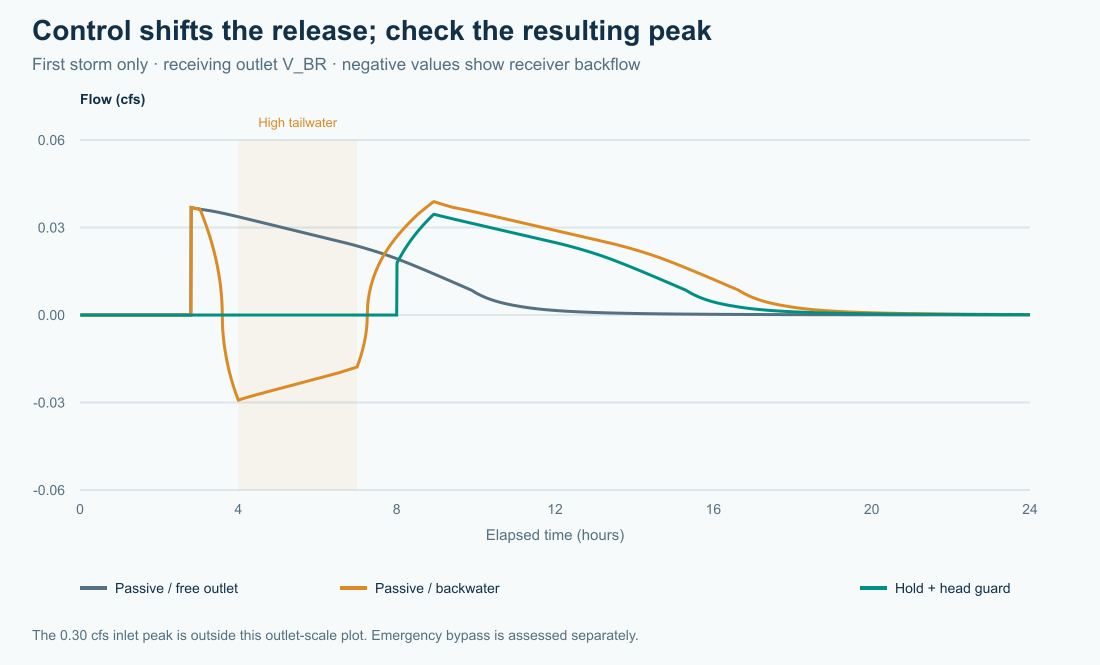
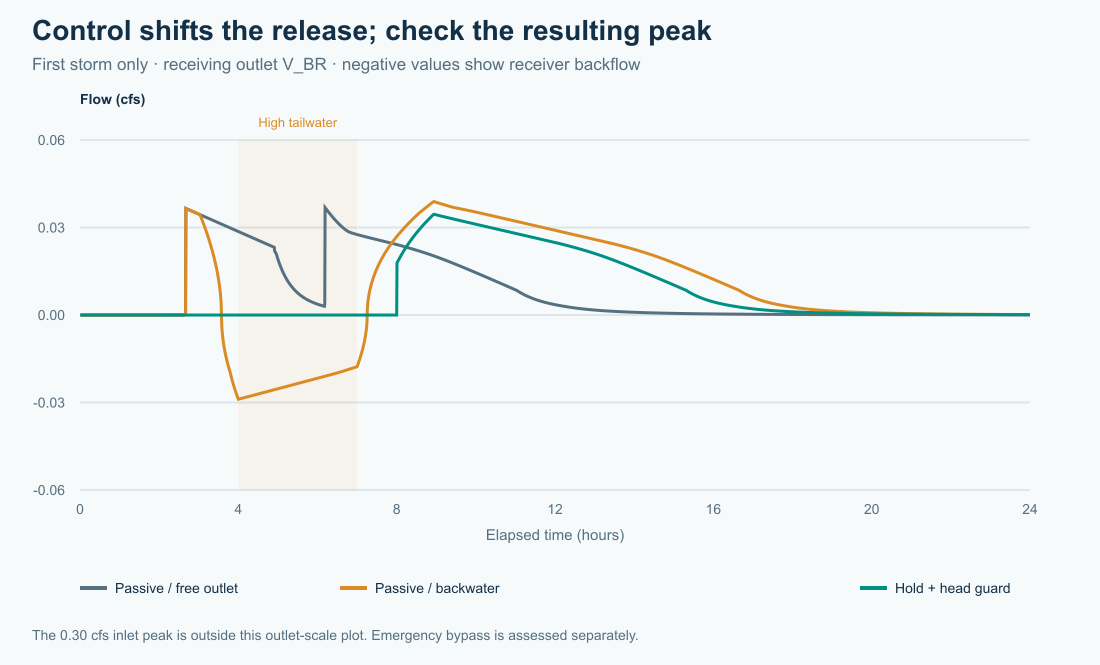
Update distributed LID formulations in the manual

Changed region(s): [[0.1545, 0.3008, 0.6182, 0.4812], [0.2164, 0.5714, 0.2473, 0.6015]]

diff --git a/docs/manual/tutorials/t10_lid_active_chain.md b/docs/manual/tutorials/t10_lid_active_chain.md
@@ -31,7 +31,7 @@ folder. Each contains all time series; no rainfall or external data file is requ
 
 These are synthetic tests with hypothetical treatment kinetics. They are not
 calibrated design recommendations. They require an engine containing the
-storage-node LID pollutant-balance corrections described in the article's
+storage-node LID legacy-hydrology adaptation and pollutant-balance corrections described in the article's
 validation notes. Use Dynamic Wave and `QUALITY_SOLVER LEGACY`.
 
 ## Steps
@@ -97,13 +97,12 @@ adds the same water volume once.
 
 \fig{t10_water-stores.png, Retained moisture and connected mobile storage in one layered facility}
 
-Intercell drainage is a gravity-only Darcy–Buckingham approximation, not
-an adjacent-cell total-head calculation. For downward-positive `xi`, the
-full one-dimensional relation is `q = K(theta) * (1 - dpsi/dxi)`; this
-kernel omits the matric-head gradient and uses donor conductivity:
+MEDIA drainage uses legacy SWMM's exponential conductivity law with a
+field-capacity cutoff. For downward-positive `xi`, Darcy–Buckingham gives
+`q = K(theta) * (1 - dpsi/dxi)`; this kernel omits the matric-head gradient:
 
 ```text
-q_i = Ks_i * clamp(theta_i / porosity_i, 0, 1)^n_i
+q_i = Ks_i * exp(-slope_i * (porosity_i - theta_i))
       if theta_i > field_capacity_i; otherwise zero
 Q_i = area_i * q_i
 accepted_volume = min(Q_i * substep,
@@ -111,23 +110,30 @@ accepted_volume = min(Q_i * substep,
                       max(0, (porosity_receiver - theta_receiver) * G_receiver))
 ```
 
-The receiving-space bound applies to a retained receiver entirely above
-the mobile water table. Otherwise, the transfer enters mobile storage.
-Cells whose bottoms lie below that table skip free drainage. Transfers
-use a common pre-update state and are debited/credited once, with explicit
-substeps at most one second. Aggregate cells use the same power law with
-zero field capacity and the default exponent three. The surface entry
-closure is separate:
+**Conductivity slope** is dimensionless, not a power exponent. A zero slope
+means constant Ks above field capacity. Ks = 10 mm/h, theta = 0.30,
+porosity = 0.45 and slope = 10 give 2.23 mm/h. AGGREGATE drains at its
+specified conductivity, with zero field capacity and the same volume bounds.
+The receiving-space bound applies above the mobile water table; a receiver
+intersected by that table routes to mobile storage. Submerged donors skip
+free drainage. All cells use a common pre-update state, explicit substeps
+at most one second and equal donor/receiver transfers.
+
+SURFACE → first MEDIA entry reuses modified Green–Ampt. Its ponded capacity
+for an existing downward front is:
 
 ```text
-q_inf = K_receiver * (1 + suction_receiver * max(porosity_receiver - theta_receiver, 0)
-                          / max(suction_receiver + theta_surface * thickness_surface, epsilon))
+f_cap = Ks * (1 + (suction + ponded_depth) * moisture_deficit / F)
+ponded_depth = theta_surface * thickness_surface / surface_void_fraction
+F_new = F_old + accepted_infiltration_volume / surface_area
 ```
 
-It uses the surface area and the same donor/receiver bounds; it does not
-track a wetting front. For media with Ks = 10 mm/h, theta = 0.30,
-porosity = 0.45, n = 3 and field capacity = 0.20, the trial drainage is
-2.96 mm/h, independent of receiving-cell suction.
+The native routine handles F = 0, integrated infiltration and supply-limited
+transitions. Rejected potential flux does not advance F or upper-zone wetness.
+Recovery cannot make the history drier than actual cell moisture. Suction and
+conductivity keep the authored in/mm and in/h or mm/h units. Green–Ampt applies
+only when MEDIA directly follows SURFACE; surface-to-aggregate entry uses the
+aggregate conductivity. Additional MEDIA layers use the drainage law above.
 
 \fig{t10_interlayer-flux.png, Donor-based gravity flux and conservative limits compared with matric-gradient transport}
 
@@ -208,7 +214,12 @@ rules and priorities. Save a separate copy when editing.
 
 ### 5. Run and compare results
 
-Run each file separately. Inspect A/B depth and volume, R head, actual valve
+In **Model → Simulation Options…**, set **Routing step** to **0.025 s**
+on the Time Steps page and set **Variable step factor** to **0** in
+Routing & Hydraulics → Solver (`VARIABLE_STEP 0`) for a controlled comparison. The supplied decks retain
+a 0.5-s initial step; the figure runner overrides it. The second-storm
+validation includes smaller steps and reports their measured differences.
+Save edited decks separately. Run each file separately. Inspect A/B depth and volume, R head, actual valve
 settings, signed flows in V_AB and V_BR, W_A/W_B flows and pollutant
 concentrations. Negative link flow indicates reversal. Use comparison plots
 as described in \ref manual_time_series_plots.
@@ -233,10 +244,10 @@ time. Static versions of both figures appear above.
 <!-- START RESULTS_TABLE -->
 | First-storm strategy | V_BR peak (cfs) | Tracer 50% export (h) | Reacted by 24 h |
 |---|---|---|---|
-| Passive / free outlet | 0.0369 | 5.08 | 33.9% |
-| Passive / backwater | 0.0389 | 10.33 | 43.9% |
-| Timed hold | 0.0345 | 10.04 | 42.6% |
-| Hold + head guard | 0.0345 | 10.04 | 42.6% |
+| Passive / free outlet | 0.0368 | 4.83 | 34.4% |
+| Passive / backwater | 0.0389 | 10.18 | 43.6% |
+| Timed hold | 0.0345 | 10.05 | 42.7% |
+| Hold + head guard | 0.0345 | 10.05 | 42.7% |
 <!-- END RESULTS_TABLE -->
 
 
@@ -246,11 +257,45 @@ time. Static versions of both figures appear above.
 **06_stuck_closed.inp** holds both orifices closed for all 24 hours. Examine
 surface bypass, any flooding and the mass left at the end. Compare every
 exit to the environment, not only V_BR. Do not credit retained pollutant as
-treated pollutant. Examine the remaining capacity before the second pulse. At the 0.025-second
-step the guarded two-storm run conveys approximately 1,208 ft³ through the
+treated pollutant. Examine the remaining capacity before the second pulse. At its finest 0.00625-second
+step the guarded two-storm run conveys approximately 1,189 ft³ through the
 emergency weirs; the stuck-closed run conveys approximately 2,007 ft³
 through the weirs. Neither case has a flooding loss in the corrected runs.
 These volumes use cumulative engine accounting rather than snapshot sums.
+
+### 7. Examine resaturation and a subsequent storm
+
+Open the supplementary [lid_resaturation.inp](lid_resaturation.inp), available
+at `docs/manual/tutorials/models/lid_resaturation.inp`. It is a separate
+six-minute, 10 ft² facility, with 6 in SURFACE, 12 in MEDIA and 6 in
+AGGREGATE; media Ks = 2 in/h, conductivity slope = 10 and initial saturation
+0%. A reversible 0.30-ft side orifice joins S to outfall O. O's stage rises
+to 2 ft at 20 s, remains high through 100 s, and falls to zero at 120 s.
+Surface inflow is 0.02 cfs at minutes 3–4 and carries 10 mg/L of TRACER;
+reverse boundary water is clean. Bottom seepage and decay are zero.
+
+Inspect signed D flow and S depth. Set the report interval to 1 s if you
+want finer plotted detail. The supplied interval is 1 s already; use a
+0.1-s routing step. Negative flow wets the facility from its port; full
+media submergence fills all pores. After recession, formerly submerged
+cells retain field-capacity moisture. The next pulse uses that wetter state.
+
+![Reverse inflow, resaturation, recession and subsequent infiltration](t10_resaturation.gif)
+
+\fig{t10_resaturation-static.png, Simulated resaturation and subsequent infiltration in the six-minute test}
+
+The infiltration history's finite upper zone counts retained moisture plus
+submerged pores. Backwater/accepted media-port wetting decreases its deficit
+without adding to cumulative surface infiltration F. Full media submergence
+clears the old front; gradual recession tracks remaining moisture until
+accepted surface infiltration starts a new approximate front. An empty surface above a backwater-wetted upper zone
+cannot trigger artificial dry recovery. This adaptation does not resolve
+upward capillary flux or interacting wetting fronts.
+
+Native V10 hotstarts retain this history and retained pollutant mass.
+Compatible pre-V10 files reconstruct infiltration history and warn that
+exact continuation is unavailable. Use a fresh run when comparing changes
+in conductivity, suction or geometry; these can invalidate saved history.
 
 ## What to look for
 
@@ -278,6 +323,9 @@ A future tutorial will investigate the spatial groundwater model and the
 pathways between distributed recharge and receiving waters.
 
 ## Formulation references
+
+- [EPA SWMM LID source](https://github.com/USEPA/Stormwater-Management-Model/blob/develop/src/solver/lidproc.c) — exponential soil conductivity and finite storage limits
+- [EPA SWMM infiltration source](https://github.com/USEPA/Stormwater-Management-Model/blob/develop/src/solver/infil.c) — modified Green–Ampt
 
 - [EPA Hydraulics Reference Manual](https://nepis.epa.gov/Exe/ZyPURL.cgi?Dockey=P100S9AS.txt)
 - [Tu, Wadzuk and Traver (2020)](https://doi.org/10.1371/journal.pone.0235528) — a more detailed representation of unsaturated flow in SWMM

diff --git a/docs/manual/14_hydraulics.md b/docs/manual/14_hydraulics.md
@@ -192,6 +192,46 @@ first two parameters are the **full** axes, not semi-axes.
 
 \figtodo{14_storage_shapes.png, Storage shape rows for a conical unit}
 
+### Storage-node LID hydraulics
+
+Assign a **LID Control** and **LID Initial Saturation (%)** to the storage
+node, then use **Model → LID Control** to edit its ordered layers. The node
+footprint supplies layer areas; MEDIA has five numerical cells per authored
+layer. Dynamic Wave routes ordinary network links and downstream heads.
+
+For cell geometry G, retained fraction theta and porosity phi, total water
+is the retained sum `sum(theta * G)` plus mobile pore water
+`sum((phi - theta) * G * submerged_fraction)`. Reported node volume includes
+both. Internal drainage transfers the same volume between these stores.
+
+MEDIA drainage is `q = Ks * exp(-slope * (phi - theta))` above field capacity,
+otherwise zero. **Conductivity slope** is dimensionless and nonnegative;
+it is not an exponent. AGGREGATE drains at its specified conductivity.
+SURFACE → first MEDIA entry uses modified Green–Ampt; for an existing ponded
+front, capacity is `Ks * (1 + (suction + ponded_depth) * deficit / F)`.
+The native routine handles F = 0 and supply limits. Actual ponded depth is
+`theta_surface * thickness / surface_void_fraction`. Only accepted entry
+advances infiltration history. All transfers use donor water and receiver
+space limits, with explicit substeps at most one second.
+
+A reversed link enters its physical port. The rising mobile table fills
+submerged pores and reconciles upper-zone infiltration deficit/wetness;
+reverse inflow does not increment surface infiltration F. Full resaturation
+clears the old front. Gradual recession tracks remaining moisture until
+accepted surface entry starts the next approximate front. Previously submerged
+cells retain field-capacity moisture. Dry recovery respects actual moisture
+and is suppressed for an empty surface over a backwater-wetted upper zone.
+
+Node HEAD/DEPTH follows the mobile table; surface ponding can be higher and
+supplies the local overflow head. Use physical weir crests and layer-relative
+anchors consistently. A depth-relief rule does not replace a surface overflow.
+This model omits intercell matric-gradient redistribution and upward capillary
+flow. Check smaller routing steps for both continuity and performance.
+See \ref tutorial_lid_active_chain for equations, simulated figures and the
+six-minute resaturation example, and \ref manual_water_quality for mass accounting.
+Native V10 hotstarts save infiltration history and retained quality; compatible
+older files reconstruct missing history and issue a continuation warning.
+
 ### Node compound editors — Inflows; DWF; RDII; Treatment
 
 The four compound rows open one modal dialog showing the form matching the

diff --git a/docs/manual/16_water_quality.md b/docs/manual/16_water_quality.md
@@ -449,6 +449,39 @@ and a message appears once per token in the **Message Logs** panel.
 ### Treatment in storage-node LID layers
 
 Layered NODE controls support fixed removal, first-order decay and optional
-treatment expressions for each pollutant and physical layer. Open the control,
-select a layer and use **Pollutant treatment**. See \ref tutorial_lid_storage
-for units, combined-rate behavior, persistence and a worked example.
+expressions for each pollutant and physical layer. Open **Model → LID Control**,
+select a layer and use **Pollutant treatment**. Storage-node LID quality
+currently requires **Dynamic Wave** with the **Legacy** quality solver.
+
+Each retained cell carries pollutant mass; connected mobile water uses one
+mixed storage reactor. In consistent units, `C = M / V`. Accepted water
+transfers remove `C_source * accepted_volume` from the donor and credit the
+treated remainder to the receiver. Evaporation leaves solute behind.
+
+Fixed removal gives `C_exit = (1 - removal_fraction) * C_source`; an optional
+R/C expression follows and cannot create mass. It acts once at a physical
+layer exit, not at every numerical MEDIA interface. Retained resident decay
+is `M_after = M_before * exp(-(k_background + k_layer) * dt)` in consistent
+time units. Mobile layer decay is weighted by the connected volume in each
+layer. Surface bypass does not receive all underlying treatment rules and
+saturated layers do not become separate plug-flow reactors.
+
+The tutorial's assumed 2/day porous-layer decay has an **8.3-hour half-life**.
+More exposure gives more calculated reaction by construction. It is not a
+calibrated field treatment prediction.
+
+Reverse link flow imports its donor concentration at the physical port.
+Outfall **LAST** backflow is an external pollutant source; **ZERO** is clean
+water. Backwater resaturation and recession conserve retained/mobile water
+and mass. Infiltration history reconciliation alone does not create mass.
+Check `initial + incoming = outfall + flooding + seepage + reacted + final stored`
+for every pollutant, including retained stores and every emergency bypass.
+A closed valve or low concentration does not prove treatment; still-stored
+mass is not reacted mass. Use cumulative budgets for brief overflow and
+repeat with smaller routing steps to check treatment and peak-flow sensitivity.
+
+Native V10 hotstarts save retained mass, moisture and infiltration history;
+compatible older files reconstruct missing history with a warning.
+See \ref tutorial_lid_storage for layer editing and expression units,
+\ref tutorial_lid_active_chain for control experiments and the resaturation
+animation, and \ref manual_hydraulics for the accepted water-flux formulation.

diff --git a/docs/manual/tutorials/t09_lid_storage.md b/docs/manual/tutorials/t09_lid_storage.md
@@ -152,8 +152,26 @@ that the hydraulic flow paths and residence times also change.
 For expressions, `DT` is seconds and `HRT` is hours; concentration uses the
 pollutant's units, while flow, depth and area use project units. `D` is the
 full authored layer thickness. `V` follows the engine's existing internal
-cubic-foot convention. Native V9 hotstarts preserve retained pollutant mass
+cubic-foot convention. Native V10 hotstarts preserve retained pollutant mass and modified Green–Ampt history
 as well as moisture; an ordinary model file saves configuration, not a restart.
+
+## Hydrology and backwater
+
+**Conductivity slope** uses the legacy SWMM exponential soil relation
+`K = Ks * exp(-slope * (porosity - theta))` above field capacity, with zero
+drainage below it. It is not a power-law exponent. A zero slope is valid.
+SURFACE → first MEDIA infiltration uses modified Green–Ampt with accepted
+volume history and the actual ponded depth. Aggregate drainage uses its
+specified conductivity, bounded by water availability and receiving space.
+
+A reversed hydraulic link enters at its physical port. Rising mobile water
+fills submerged pores and reconciles the infiltration history with the
+wetting. After full media resaturation and recession, a subsequent storm
+starts from remaining moisture. This remains a gravity-drainage and
+wetting-front approximation; it does not compute adjacent-cell matric-head
+gradients. Compatible older hotstarts reconstruct missing infiltration
+history and issue an exact-continuation warning. T10 contains the equations,
+a six-minute reversal test and a simulated resaturation animation.
 
 ## Related
 
